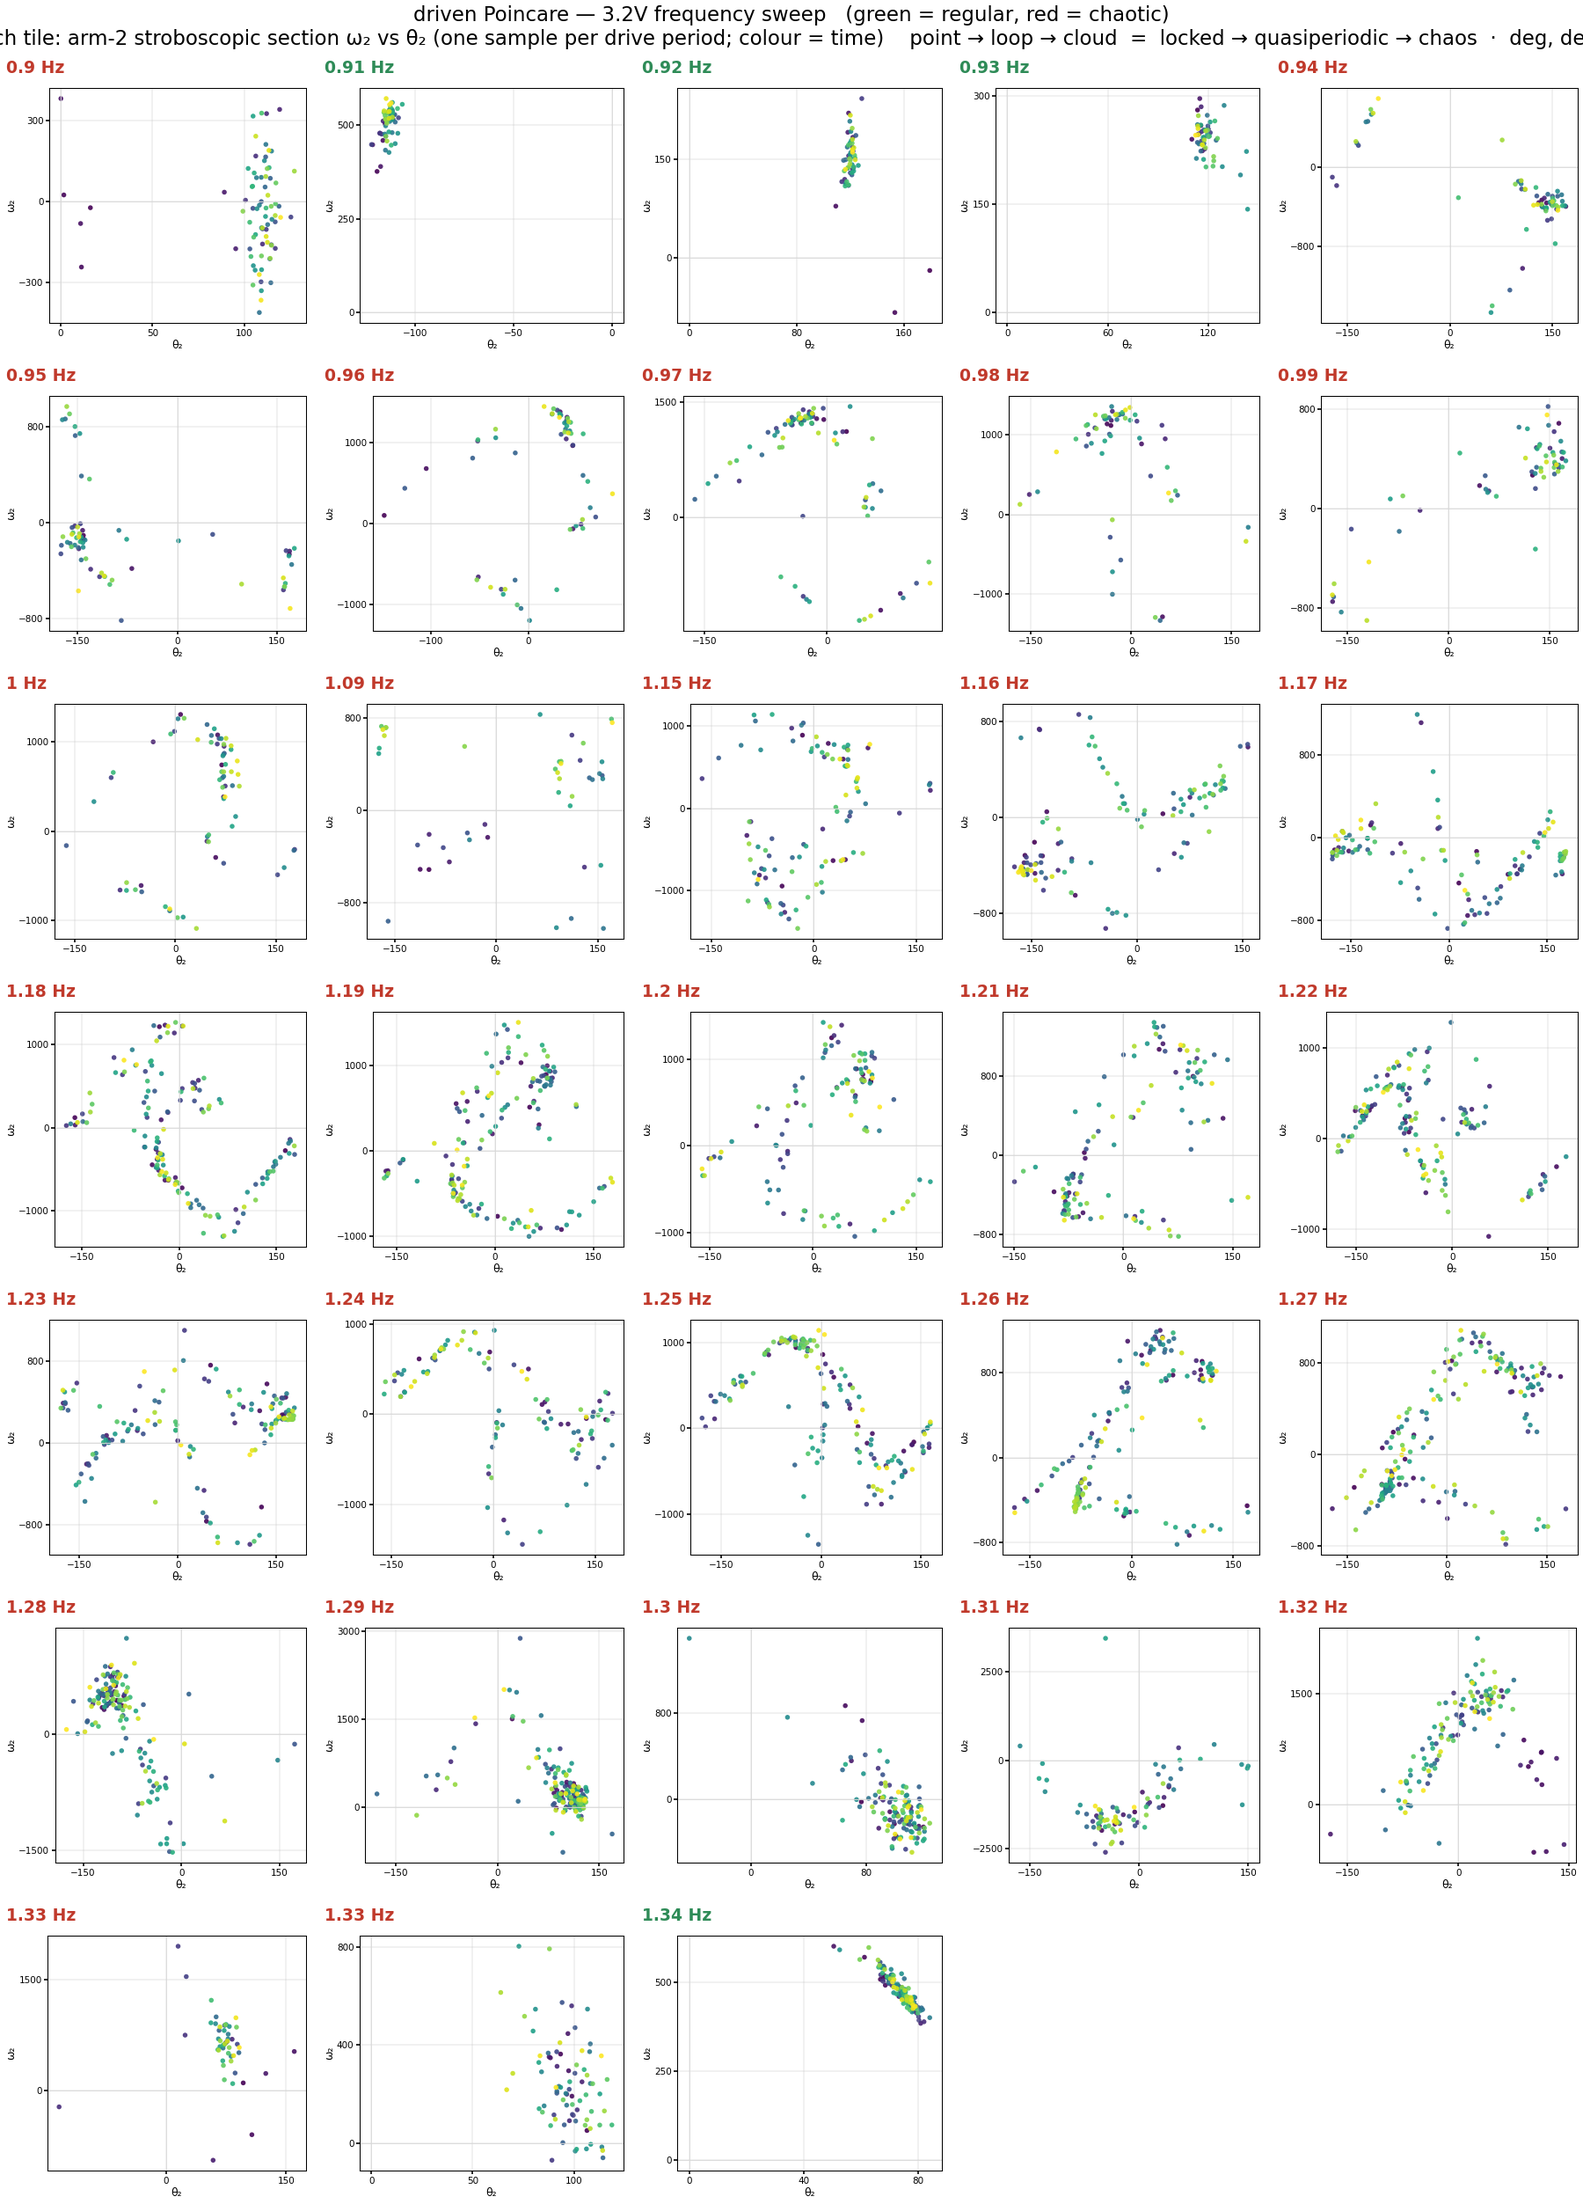
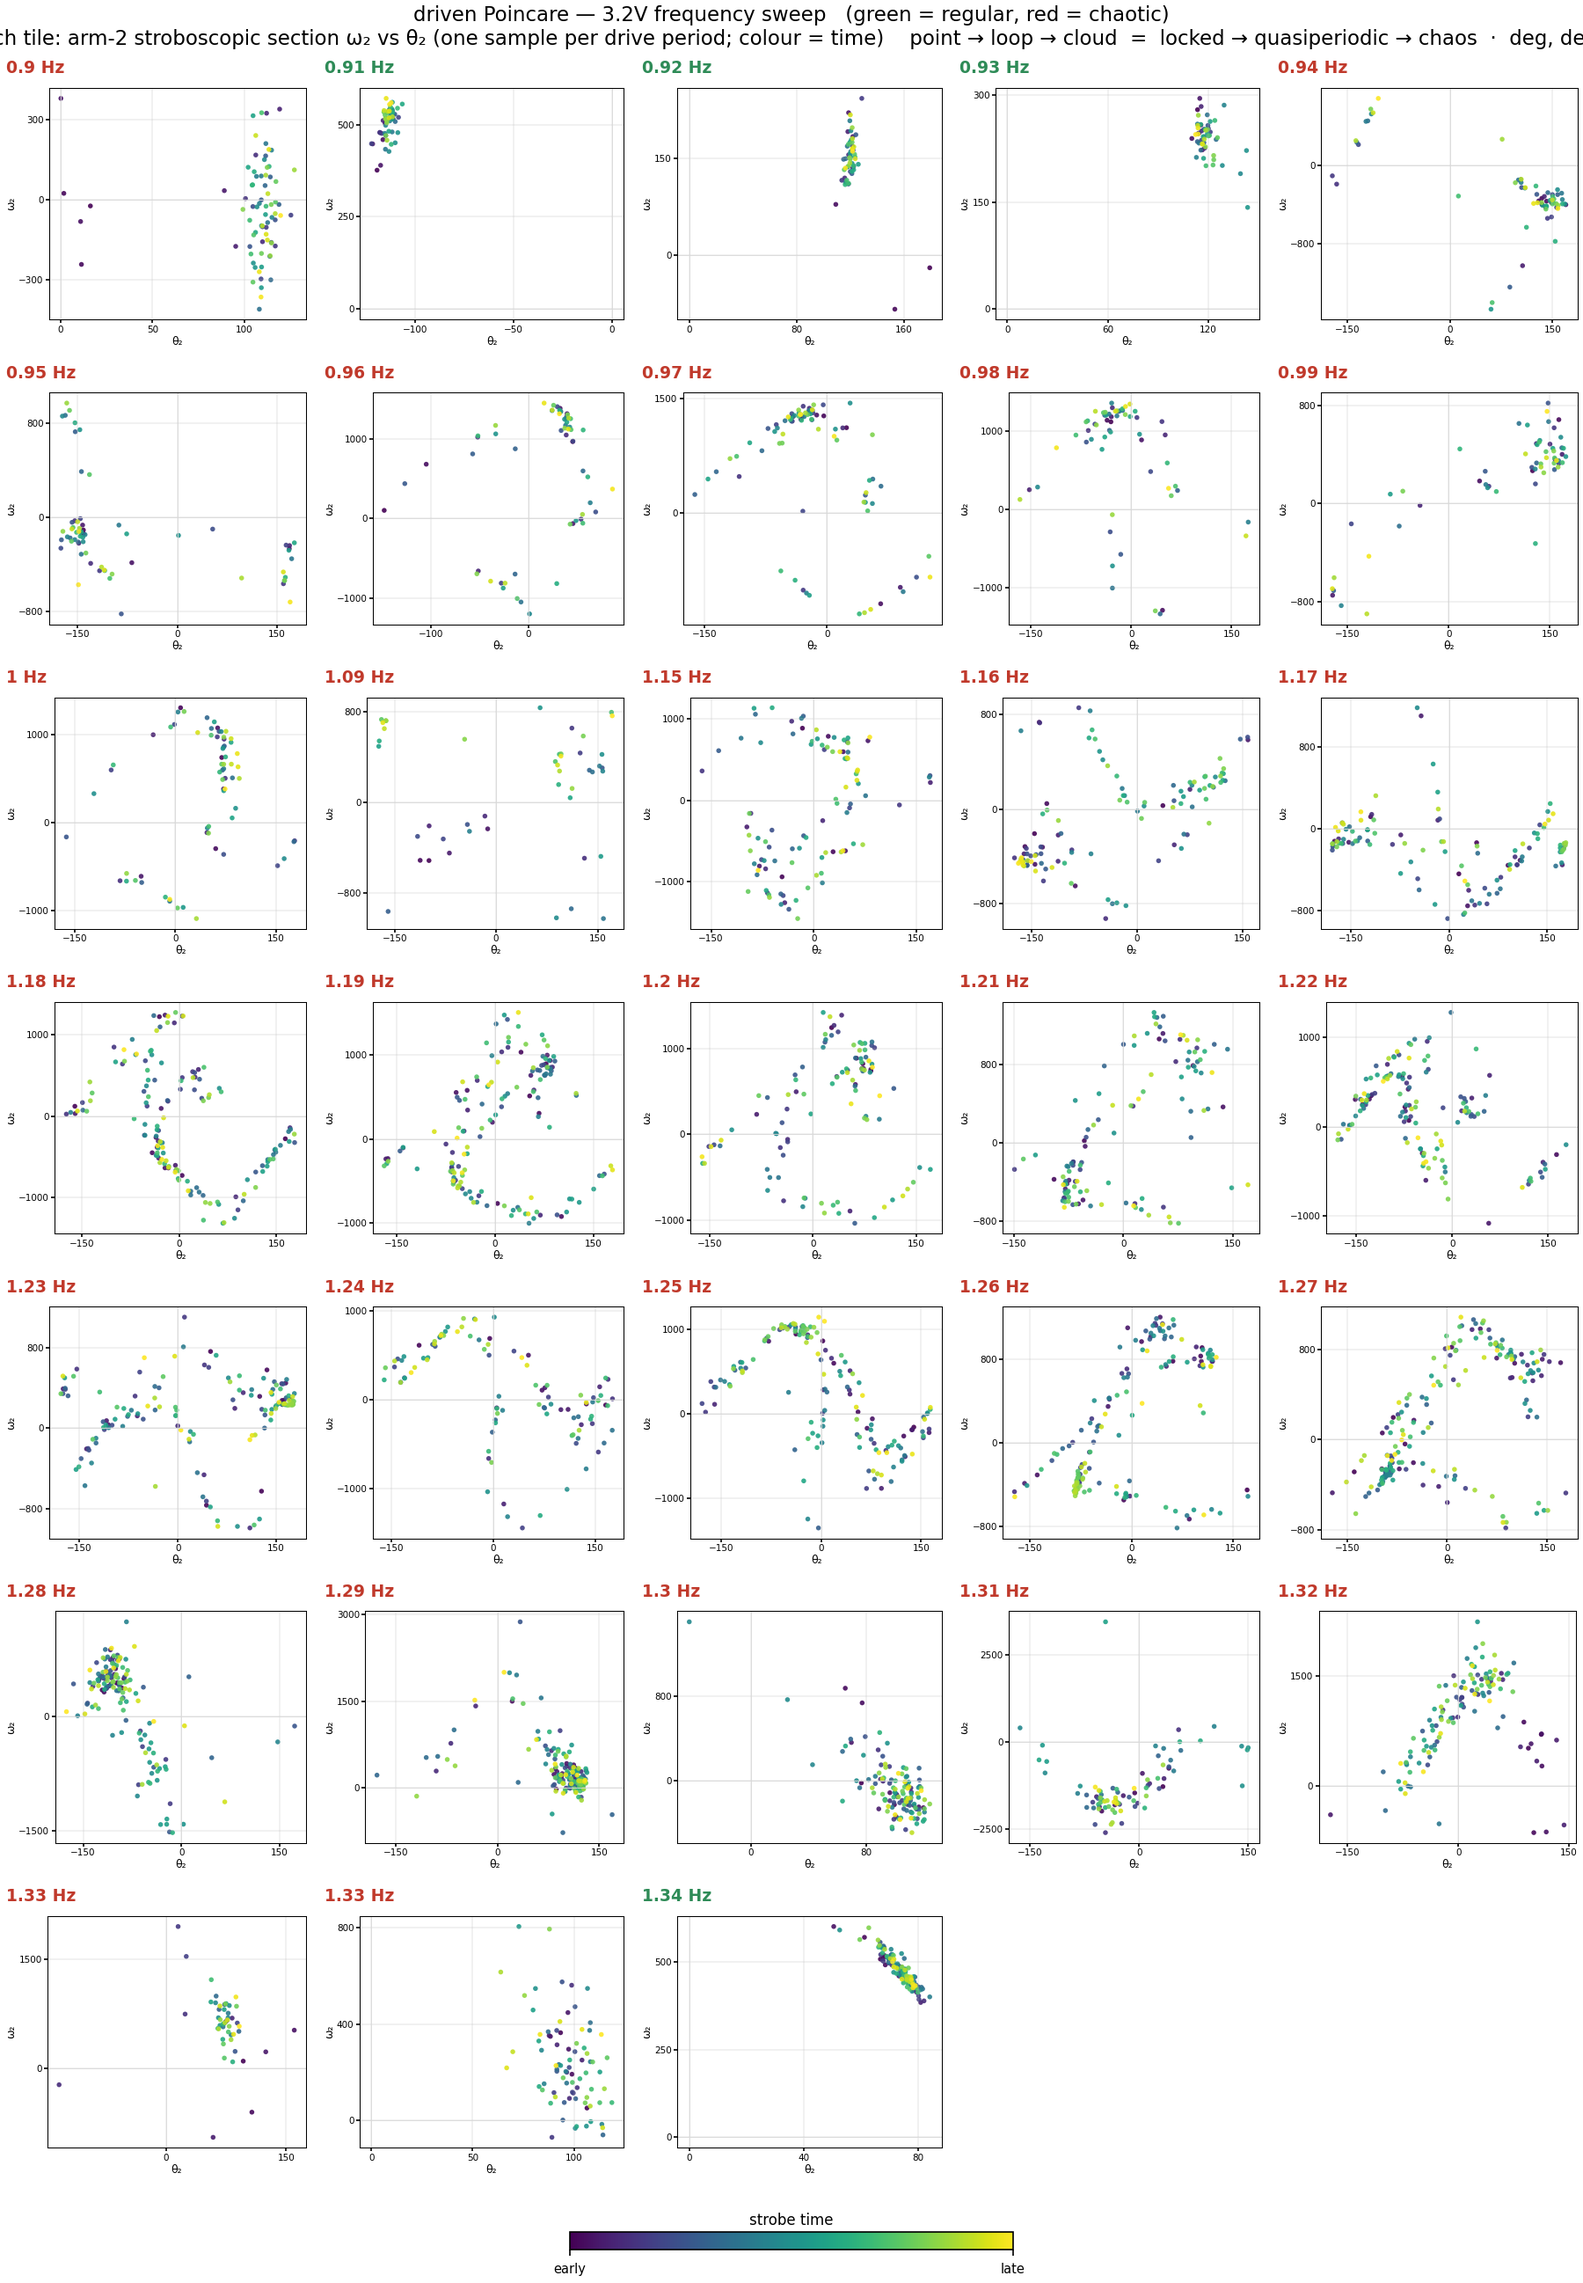
analysis: shared viridis time colorbar on the driven-Poincare palette
The tiles colour strobe points by time but had no legend. Add one shared
horizontal viridis colorbar in a reserved bottom strip (label above, early->
late ticks) via a per-spec `colorbar` field, so the time encoding is explicit
without a colorbar per tile.

diff --git a/scripts/analysis/palette_sweep.py b/scripts/analysis/palette_sweep.py
@@ -76,6 +76,8 @@ class PaletteSpec:
     cell_h: float = 1.3              # tile height (inches) per grid row
     ncols: int = 3                   # default clips per row (CLI --ncols overrides)
     key: str = ""                    # plain-English caption: what each tile shows
+    colorbar: str = ""               # if set, add a shared viridis time colorbar
+                                     # with this label (tiles colour points by time)
 
 
 def _has_tracking(stem):
@@ -134,6 +136,7 @@ SPECS = {
     "driven_poincare": PaletteSpec(
         label="driven Poincare", load=_load_drpoinc, tile=_tile_drpoinc,
         available=_has_verification, ncols=5, cell_w=2.4, cell_h=2.3,
+        colorbar="strobe time",
         key="each tile: arm-2 stroboscopic section ω₂ vs θ₂ "
             "(one sample per drive period; colour = time)    "
             "point → loop → cloud  =  locked → quasiperiodic → chaos  ·  deg, deg/s"),
@@ -216,9 +219,16 @@ def main():
 
     with Live(_progress_grid(stems, ncols, regimes, 0), console=console,
               refresh_per_second=8) as live:
-        fig = plt.figure(figsize=(spec.cell_w * ncols, spec.cell_h * nrows + 0.6),
-                         dpi=150, constrained_layout=True)
-        subfigs = fig.subfigures(nrows, ncols, squeeze=False).ravel()
+        bar_h = 0.6 if spec.colorbar else 0.0
+        fig = plt.figure(
+            figsize=(spec.cell_w * ncols, spec.cell_h * nrows + 0.6 + bar_h),
+            dpi=150, constrained_layout=True)
+        if spec.colorbar:    # reserve a thin bottom strip for the shared colorbar
+            grid_fig, bar_fig = fig.subfigures(
+                2, 1, height_ratios=[spec.cell_h * nrows, bar_h])
+        else:
+            grid_fig, bar_fig = fig, None
+        subfigs = grid_fig.subfigures(nrows, ncols, squeeze=False).ravel()
         for k, stem in enumerate(stems):
             live.update(_progress_grid(stems, ncols, regimes, k))
             data = spec.load(stem)
@@ -226,6 +236,16 @@ def main():
             live.update(_progress_grid(stems, ncols, regimes, k + 1))
         for k in range(n, len(subfigs)):
             subfigs[k].set_facecolor("none")     # blank trailing cells
+
+        if bar_fig is not None:
+            sm = plt.cm.ScalarMappable(cmap=plt.cm.viridis, norm=plt.Normalize(0, 1))
+            cax = bar_fig.add_axes([0.36, 0.42, 0.28, 0.22])
+            cb = bar_fig.colorbar(sm, cax=cax, orientation="horizontal")
+            cb.set_ticks([0, 1])
+            cb.set_ticklabels(["early", "late"])
+            cb.ax.tick_params(labelsize=7)
+            cb.set_label(spec.colorbar, fontsize=8)
+            cb.ax.xaxis.set_label_position("top")   # above the bar so it can't clip
 
         title = (f"{spec.label} — {args.family} frequency sweep   "
                  "(green = regular, red = chaotic)")
